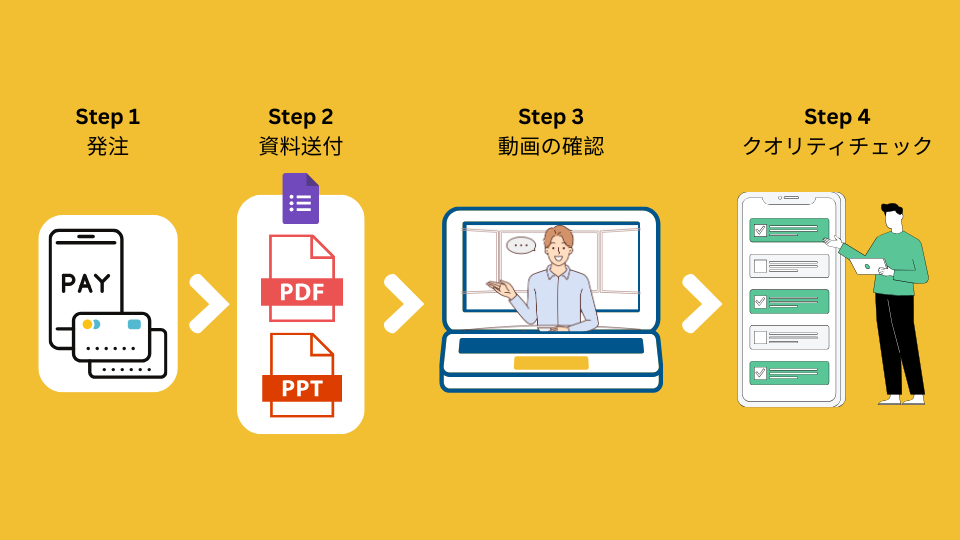
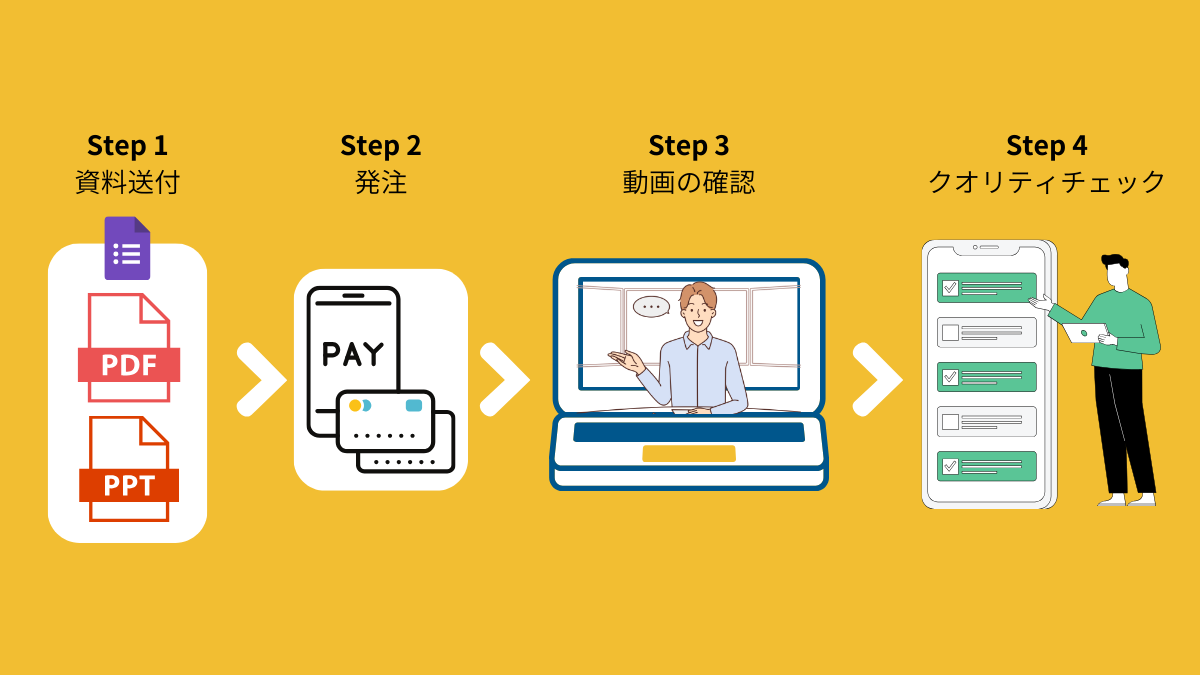
Update Aska Studio webpage.

diff --git a/_site/Aska-Studio-ja/index.html b/_site/Aska-Studio-ja/index.html
@@ -207,20 +207,17 @@
 <h4 id="サンプル">サンプル</h4>
 <p>インスタグラムにカタログを掲載しております。ぜひご参照ください。</p>
 
-<p><a href="https://www.instagram.com/aska__studio/">https://www.instagram.com/aska__studio/</a></p>
+<p><a class="btn btn-primary text-white" href="https://www.instagram.com/aska__studio/">カタログ (@aska__studio)</a></p>
 
-<h4 id="ご注文">ご注文</h4>
+<h4 id="ご注文ご相談">ご注文・ご相談</h4>
+
+<p><a class="btn btn-primary text-white" href="https://docs.google.com/forms/d/e/1FAIpQLSeB_X5ie151T50PbzQvfVAwi8B1MJhOi1PE2UibfGfXXp6BYw/viewform?usp=sf_link">ご注文・ご相談用Googleフォーム</a></p>
+
 <ul>
-  <li>以下の注文リンクからご購入ください。</li>
-  <li>購入リンクからご注文いただいた後、Googleフォームから元となる資料を送信頂く形式です。</li>
+  <li>ご注文確定後、支払いリンクをお送りいたします。</li>
+  <li>まずはご相談、という場合でも上記フォームから受け付けております。</li>
   <li>2週間以内を目処に動画を制作いたします。</li>
 </ul>
-
-<script async="" src="https://js.stripe.com/v3/buy-button.js">
-</script>
-
-<stripe-buy-button buy-button-id="buy_btn_1OS9xiDo8uVOKmA4HpUD2YHZ" publishable-key="pk_live_51NqUGqDo8uVOKmA4DtdZ9oO9YwBtkt1dZQ0Qc1DQtjypo6Z2wVXXU9ftcghkFhA7dccnyfIJZ7Jz91a1t0StNCsF00gm5qcv37">
-</stripe-buy-button>
 
                 <div class="clearfix"></div>
 			</div>

diff --git a/_posts/2018-01-01-Aska-Studio-ja.md b/_posts/2018-01-01-Aska-Studio-ja.md
@@ -22,20 +22,12 @@ PDF資料や発表スライド、セリフ原稿等の資料を元に、生成AI
 #### サンプル
 インスタグラムにカタログを掲載しております。ぜひご参照ください。
 
-[https://www.instagram.com/aska__studio/](https://www.instagram.com/aska__studio/)
+<a class="btn btn-primary text-white" href="https://www.instagram.com/aska__studio/">カタログ (@aska__studio)</a>
 
+#### ご注文・ご相談
 
-#### ご注文
-- 以下の注文リンクからご購入ください。
-- 購入リンクからご注文いただいた後、Googleフォームから元となる資料を送信頂く形式です。
+<a class="btn btn-primary text-white" href="https://docs.google.com/forms/d/e/1FAIpQLSeB_X5ie151T50PbzQvfVAwi8B1MJhOi1PE2UibfGfXXp6BYw/viewform?usp=sf_link">ご注文・ご相談用Googleフォーム</a>
+
+- ご注文確定後、支払いリンクをお送りいたします。
+- まずはご相談、という場合でも上記フォームから受け付けております。
 - 2週間以内を目処に動画を制作いたします。
-
-<script async
-  src="https://js.stripe.com/v3/buy-button.js">
-</script>
-
-<stripe-buy-button
-  buy-button-id="buy_btn_1OS9xiDo8uVOKmA4HpUD2YHZ"
-  publishable-key="pk_live_51NqUGqDo8uVOKmA4DtdZ9oO9YwBtkt1dZQ0Qc1DQtjypo6Z2wVXXU9ftcghkFhA7dccnyfIJZ7Jz91a1t0StNCsF00gm5qcv37"
->
-</stripe-buy-button>
